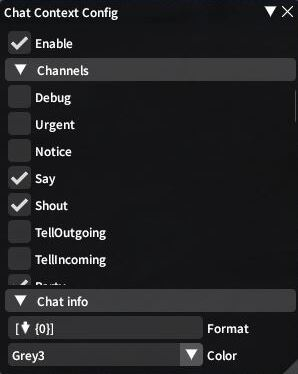
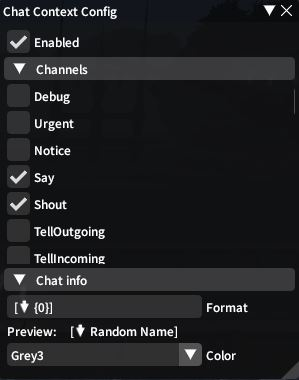
Add format validation and preview

diff --git a/ChatContext/Windows/MainWindow.cs b/ChatContext/Windows/MainWindow.cs
@@ -7,21 +7,21 @@ using ImGuiNET;
 
 namespace ChatContext.Windows;
 
-public class TableComparer(ImGuiTableColumnSortSpecsPtr specs) : IComparer<KeyValuePair<string, string>>
-{
-    private ImGuiTableColumnSortSpecsPtr Specs { get; init; } = specs;
-
-    public int Compare(KeyValuePair<string, string> lhs, KeyValuePair<string, string> rhs)
-    {
-        var left = Specs.ColumnIndex == 0 ? lhs.Key : lhs.Value;
-        var right = Specs.ColumnIndex == 0 ? rhs.Key : rhs.Value;
-
-        return Specs.SortDirection == ImGuiSortDirection.Ascending ? left.CompareTo(right) : right.CompareTo(left);
-    }
-}
-
 public class MainWindow : Window, IDisposable
 {
+    public class TableComparer(ImGuiTableColumnSortSpecsPtr specs) : IComparer<KeyValuePair<string, string>>
+    {
+        private ImGuiTableColumnSortSpecsPtr Specs { get; init; } = specs;
+
+        public int Compare(KeyValuePair<string, string> lhs, KeyValuePair<string, string> rhs)
+        {
+            var left = Specs.ColumnIndex == 0 ? lhs.Key : lhs.Value;
+            var right = Specs.ColumnIndex == 0 ? rhs.Key : rhs.Value;
+
+            return Specs.SortDirection == ImGuiSortDirection.Ascending ? left.CompareTo(right) : right.CompareTo(left);
+        }
+    }
+
     private Plugin Plugin { get; init; }
     private NearbyPlayers NearbyPlayers { get; init; }
 
@@ -29,7 +29,7 @@ public class MainWindow : Window, IDisposable
     {
         SizeConstraints = new WindowSizeConstraints
         {
-            MinimumSize = new Vector2(300, 375),
+            MinimumSize = new Vector2(300, 380),
             MaximumSize = new Vector2(float.MaxValue, float.MaxValue)
         };
 

diff --git a/ChatContext/Windows/ConfigWindow.cs b/ChatContext/Windows/ConfigWindow.cs
@@ -3,6 +3,7 @@ using System.Linq;
 using System.Numerics;
 using Dalamud.Game.Text;
 using Dalamud.Interface.Windowing;
+using Dalamud.Utility;
 using ImGuiNET;
 
 namespace ChatContext.Windows;
@@ -18,7 +19,7 @@ public class ConfigWindow : Window, IDisposable
     {
         SizeConstraints = new WindowSizeConstraints
         {
-            MinimumSize = new Vector2(300, 375),
+            MinimumSize = new Vector2(300, 38),
             MaximumSize = new Vector2(float.MaxValue, float.MaxValue)
         };
 
@@ -26,7 +27,6 @@ public class ConfigWindow : Window, IDisposable
     }
 
     public void Dispose() { }
-
 
     public override void Draw()
     {
@@ -41,7 +41,7 @@ public class ConfigWindow : Window, IDisposable
         {
             // Types
             var types = Configuration.Types.ToHashSet();
-            if (ImGui.BeginChild("channel", new Vector2(ImGui.GetWindowWidth(), 200)))
+            if (ImGui.BeginChild("channel", new Vector2(ImGui.GetWindowWidth(), 180)))
             {
                 foreach (var enumName in Enum.GetNames(typeof(XivChatType)))
                 {
@@ -77,6 +77,10 @@ public class ConfigWindow : Window, IDisposable
                 Configuration.Format = format;
                 Configuration.Save();
             }
+
+            ImGui.Text("Preview: ");
+            ImGui.SameLine();
+            ImGui.Text(Configuration.FormatValid()? string.Format(format, "Random Name") : "Invalid format");
 
             // Colors
             var colorName = Enum.GetName(typeof(UIColor), Configuration.Color)!;

diff --git a/ChatContext/ChatEnricher.cs b/ChatContext/ChatEnricher.cs
@@ -27,14 +27,14 @@ public class ChatEnricher : IDisposable
 
     void OnChatMessage(XivChatType type, int a2, ref SeString sender, ref SeString message, ref bool isHandled)
     {
-        if (Configuration.Enabled && Configuration.Types.Contains(type))
+        if (Configuration.Enabled && Configuration.FormatValid() && Configuration.Types.Contains(type))
         {
             string name;
-            if (sender.Payloads.Count > 0 && sender.Payloads[0] is PlayerPayload) 
+            if (sender.Payloads.Count > 0 && sender.Payloads[0] is PlayerPayload)
             {
                 // cross world player format
                 name = ((PlayerPayload)sender.Payloads[0]).PlayerName;
-            } 
+            }
             else
             {
                 name = sender.TextValue;
@@ -44,6 +44,7 @@ public class ChatEnricher : IDisposable
             if (targetName != null)
             {
                 var suffix = new SeStringBuilder()
+                    .Append(" ")
                     .AddUiForeground((ushort)Configuration.Color)
                     .Append(string.Format(Configuration.Format, targetName))
                     .AddUiForegroundOff()

diff --git a/ChatContext/Configuration.cs b/ChatContext/Configuration.cs
@@ -20,9 +20,24 @@ public class Configuration : IPluginConfiguration
         XivChatType.Shout 
     };
 
-    public string Format { get; set; } = " [ {0}]";
+    public string Format { get; set; } = "[ {0}]";
 
     public UIColor Color { get; set; } = UIColor.Grey4;
+
+
+    public bool FormatValid()
+    {
+        try 
+        { 
+            var _ = string.Format(Format, string.Empty);
+            return true; 
+        } 
+        catch (FormatException)
+        {
+            return false;
+        }
+    }
+
 
     public void Save()
     {
